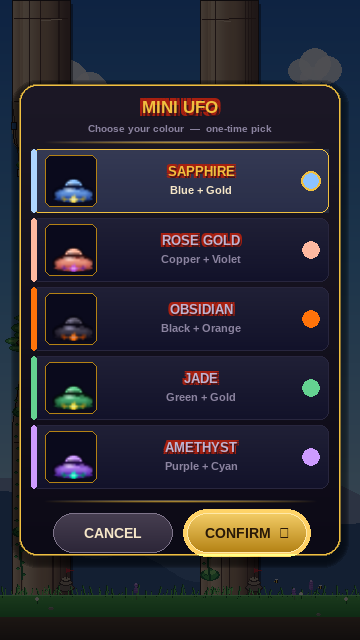
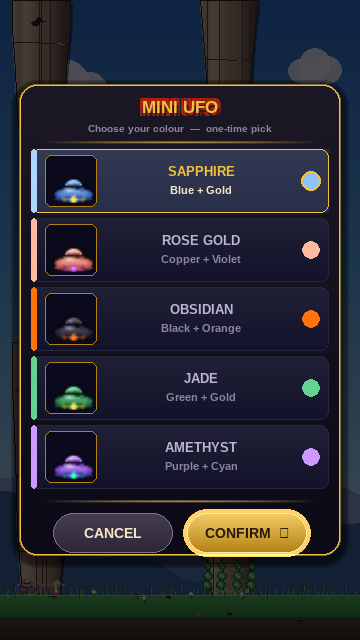
UFO picker: plain gold for variant names (no red outline)
Claude-Session: https://claude.ai/code/session_01K6KPJsdtoYoDR2za2Jqnmo

diff --git a/game/store.py b/game/store.py
@@ -919,9 +919,8 @@ class StoreScene:
             dot_cx_x  = tab_x0 + TAB_W - 18
             text_cx   = (text_left + dot_cx_x - 14) // 2
             name_fill = _GOLD_BRIGHT if selected else (190, 180, 210)
-            _outlined_text(surf, v["name"], (text_cx, ty + TAB_H // 2 - 10), 13,
-                           fill=name_fill, outline=_RED_OUTLINE, px=2,
-                           shadow_offset=(1, 2))
+            ns = _font(13, True).render(v["name"], True, name_fill)
+            surf.blit(ns, ns.get_rect(center=(text_cx, ty + TAB_H // 2 - 10)))
             desc_col  = UI_CREAM if selected else (140, 132, 160)
             ds = _font(11).render(v["desc"], True, desc_col)
             surf.blit(ds, ds.get_rect(center=(text_cx, ty + TAB_H // 2 + 9)))
